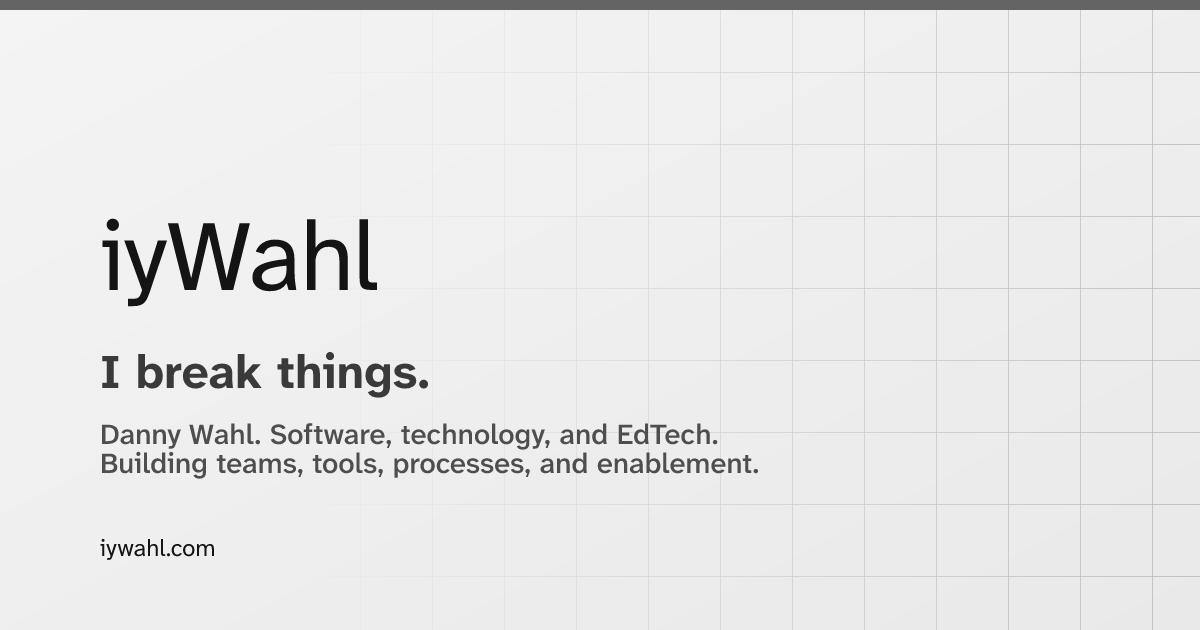
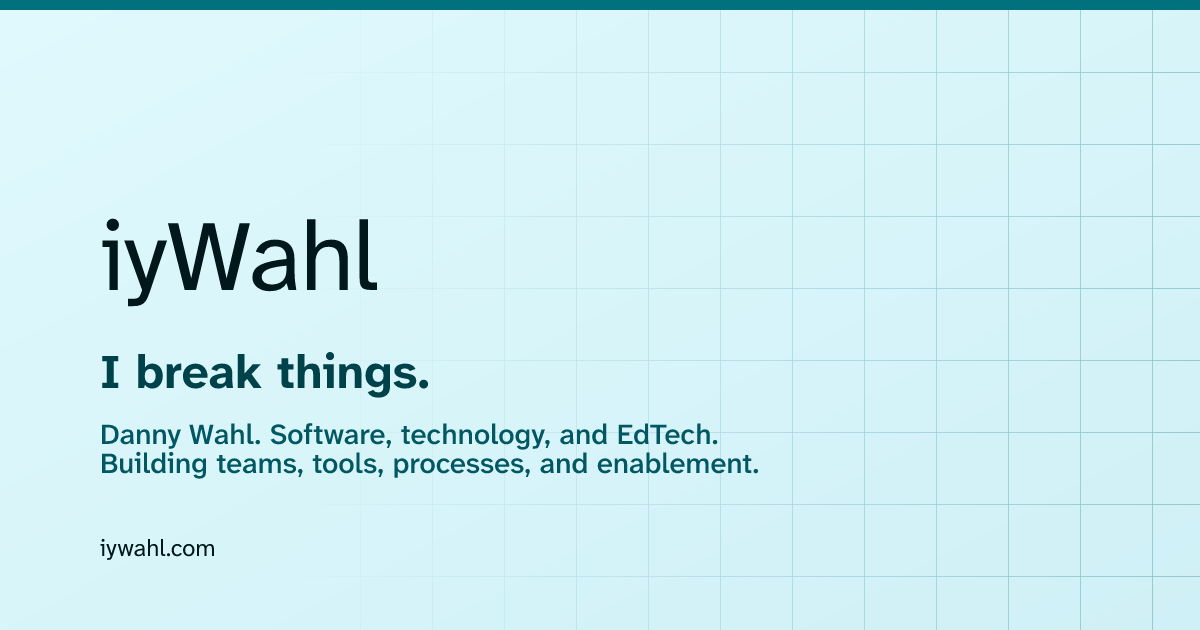
feat: implement structured data for improved SEO and social sharing

diff --git a/tests/site.test.js b/tests/site.test.js
@@ -10,7 +10,7 @@ import { gzipSync } from 'node:zlib';
 import postcss from 'postcss';
 import nunjucks from 'nunjucks';
 import { bluePalette, optimizeCss, productionCss } from '../build/optimize-css.js';
-import { projectArtwork, projectUrl, readProjects, renderPage, site } from '../build/site.js';
+import { projectArtwork, projectUrl, readProjects, renderPage, site, structuredData } from '../build/site.js';
 import { normalizePost, readBlog, sanitizeMarkdown } from '../build/blog.js';
 import { blogAssets, generateSite, staging } from '../build/generate.js';
 import { readTagIcons, tagIconStyles } from '../build/tag-icons.js';
@@ -388,7 +388,7 @@ test('Pages workflow uses npm, deploys only master, and uploads only the product
   expect(upload.if).toBe(workflow.jobs.deploy.if);
 });
 
-test('homepage metadata uses a descriptive title and preserves the existing social image', async () => {
+test('homepage metadata uses a descriptive title and branded social image', async () => {
   const page = await browser.newPage();
   await page.setContent(renderPage(await readFile('src/index.html', 'utf8')));
   const title = await page.title();
@@ -404,6 +404,63 @@ test('homepage metadata uses a descriptive title and preserves the existing soci
     .toBe('iyWahl. I break things. Danny Wahl. Software, technology, and EdTech.');
   expect(await page.locator('meta[name="twitter:image:alt"]').getAttribute('content'))
     .toBe('iyWahl. I break things. Danny Wahl. Software, technology, and EdTech.');
+  await page.close();
+});
+
+test('structured metadata safely serializes titles, authors, dates and topics', () => {
+  const post = normalizePost({ title: '</script><script>alert("title")</script>',
+    published_at: '2024-01-01T00:00:00Z', modified_at: '2024-02-01T00:00:00Z',
+    authors: 'Guest Author', tags: 'CSS, Education' }, 'metadata-probe');
+  const json = structuredData(post.title, 'Quotes " & <markup>', `${post.url}index.html`, post);
+  expect(json).not.toContain('<');
+  const article = JSON.parse(json)['@graph'].find(node => node['@type'] === 'BlogPosting');
+  expect(article).toMatchObject({ headline: post.title, description: 'Quotes " & <markup>',
+    url: post.canonical, datePublished: post.date.toISOString(), dateModified: post.updated.toISOString(),
+    author: { '@type': 'Person', name: 'Guest Author' }, keywords: ['CSS', 'Education'] });
+});
+
+test('built pages expose consistent schema.org and social unfurl metadata', async () => {
+  const post = readBlog().posts[0];
+  const page = await browser.newPage();
+  for (const path of ['/', '/blog/', '/blog/page/2/', '/blog/archive/', '/blog/tags/', post.url]) {
+    await page.goto(`${urls.dist}${path}`);
+    const canonical = `https://iywahl.com${path}`;
+    const title = await page.title();
+    const description = await page.locator('meta[name="description"]').getAttribute('content');
+    for (const selector of ['meta[property="og:title"]', 'meta[name="twitter:title"]']) {
+      expect(await page.locator(selector).getAttribute('content')).toBe(title);
+    }
+    expect(await page.locator('meta[property="og:url"]').getAttribute('content')).toBe(canonical);
+    expect(await page.locator('meta[name="twitter:image"]').getAttribute('content'))
+      .toBe('https://iywahl.com/assets/social/iywahl-og-light.png');
+    const schema = JSON.parse(await page.locator('script[type="application/ld+json"]').textContent());
+    expect(schema['@context']).toBe('https://schema.org');
+    const nodes = schema['@graph'];
+    const webpage = nodes.find(node => node['@id'] === `${canonical}#webpage`);
+    expect(webpage).toMatchObject({ url: canonical, name: title, description,
+      '@type': path === '/' ? 'ProfilePage' : path === post.url ? 'WebPage' : 'CollectionPage' });
+    expect(nodes.find(node => node['@type'] === 'ImageObject')).toMatchObject({ width: 1200, height: 630 });
+    const ids = new Set(nodes.map(node => node['@id']));
+    for (const reference of JSON.stringify(nodes).matchAll(/\{"@id":"([^"]+)"\}/g)) {
+      expect(ids.has(reference[1])).toBe(true);
+    }
+    if (path === post.url) {
+      expect(nodes.find(node => node['@type'] === 'BlogPosting')).toMatchObject({
+        headline: post.title, datePublished: post.date.toISOString(),
+        dateModified: (post.updated || post.date).toISOString(), author: { '@id': 'https://iywahl.com/#person' } });
+    }
+  }
+  const artwork = {
[4 lines of base64/hex data omitted]
+  };
+  for (const [filename, hash] of Object.entries(artwork)) {
+    const response = await page.request.get(`${urls.dist}/assets/social/${filename}`);
+    expect(response.status()).toBe(200);
+    expect(createHash('sha256').update(await response.body()).digest('hex')).toBe(hash);
+  }
   await page.close();
 });
 

diff --git a/build/site.js b/build/site.js
@@ -10,6 +10,41 @@ const source = fileURLToPath(new URL('../src/', import.meta.url));
 const projectAssets = join(source, 'assets/projects');
 const dataPath = join(source, 'data/projects.json');
 
+export function structuredData(
+  title = 'Accessible Web Tools by Danny Wahl | Pantoken & CSSDoc',
+  description = 'Pantoken, CSSDoc, and automatica11y \u2014 tools for building and documenting the accessible web.',
+  path = '/', post = null,
+) {
+  const origin = 'https://iywahl.com';
+  const url = new URL(path.replace(/index\.html$/, ''), origin).href;
+  const person = { '@type': 'Person', '@id': `${origin}/#person`, name: 'Danny Wahl', url: `${origin}/` };
+  const image = { '@type': 'ImageObject', '@id': `${origin}/#social-image`,
+    url: `${origin}/assets/social/iywahl-og-light.png`, contentUrl: `${origin}/assets/social/iywahl-og-light.png`,
+    width: 1200, height: 630, caption: 'iyWahl. I break things. Danny Wahl. Software, technology, and EdTech.' };
+  const website = { '@type': 'WebSite', '@id': `${origin}/#website`, name: 'iyWahl', url: `${origin}/`,
+    publisher: { '@id': person['@id'] }, inLanguage: 'en' };
+  const page = { '@type': path === '/' ? 'ProfilePage' : post ? 'WebPage' : 'CollectionPage',
+    '@id': `${url}#webpage`, url, name: title, description, inLanguage: 'en',
+    isPartOf: { '@id': website['@id'] }, primaryImageOfPage: { '@id': image['@id'] } };
+  const graph = [person, website, image, page];
+  if (path === '/') page.mainEntity = { '@id': person['@id'] };
+  else {
+    const blog = { '@type': 'Blog', '@id': `${origin}/blog/#blog`, url: `${origin}/blog/`,
+      name: "Danny Wahl's Blog", publisher: { '@id': person['@id'] }, inLanguage: 'en' };
+    graph.push(blog);
+    if (post) {
+      page.mainEntity = { '@id': `${url}#article` };
+      graph.push({ '@type': 'BlogPosting', '@id': `${url}#article`, url, headline: post.title, description,
+        datePublished: post.date.toISOString(), dateModified: (post.updated || post.date).toISOString(),
+        author: post.author === person.name ? { '@id': person['@id'] } : { '@type': 'Person', name: post.author },
+        publisher: { '@id': person['@id'] }, image: { '@id': image['@id'] },
+        isPartOf: { '@id': blog['@id'] }, mainEntityOfPage: { '@id': page['@id'] },
+        keywords: post.topics.map(topic => topic.label), inLanguage: 'en' });
+    } else page.mainEntity = { '@id': blog['@id'] };
+  }
+  return JSON.stringify({ '@context': 'https://schema.org', '@graph': graph }).replace(/</g, '\\u003c');
+}
+
 export function projectUrl(url) {
   if (typeof url !== 'string' || !url.trim()) throw new Error('Invalid project URL');
   const resolved = new URL(url, 'https://iywahl.com/');
@@ -75,6 +110,7 @@ export function renderPage(html) {
     noCache: true,
   }), { autoescape: true, throwOnUndefined: true });
   environment.addGlobal('projectArtwork', projectArtwork);
+  environment.addGlobal('structuredData', structuredData);
   return environment.renderString(html, { projects: readProjects() });
 }
 

diff --git a/eleventy.config.js b/eleventy.config.js
@@ -1,5 +1,5 @@
 import nunjucks from 'nunjucks';
-import { readProjects, projectArtwork } from './build/site.js';
+import { readProjects, projectArtwork, structuredData } from './build/site.js';
 import { readBlog, sanitizeMarkdown } from './build/blog.js';
 import anchor from 'markdown-it-anchor';
 import Shiki from '@shikijs/markdown-it';
@@ -20,6 +20,7 @@ export default function (configuration) {
     noCache: true,
   }), { autoescape: true, throwOnUndefined: true });
   environment.addGlobal('projectArtwork', projectArtwork);
+  environment.addGlobal('structuredData', structuredData);
   configuration.setLibrary('njk', environment);
   configuration.addLayoutAlias('partials/blog-layout.njk', 'blog-layout.njk');
   configuration.addLayoutAlias('partials/blog-post.njk', 'blog-post.njk');

diff --git a/src/index.html b/src/index.html
@@ -22,6 +22,7 @@
   <meta name="twitter:description" content="Pantoken, CSSDoc, and automatica11y &mdash; tools for building and documenting the accessible web.">
   <meta name="twitter:image" content="https://iywahl.com/assets/social/iywahl-og-light.png">
   <meta name="twitter:image:alt" content="iyWahl. I break things. Danny Wahl. Software, technology, and EdTech.">
+  <script type="application/ld+json">{{ structuredData() | safe }}</script>
   <link rel="icon" href="/assets/favicon/iywahl-favicon.ico" sizes="any">
   <link rel="icon" href="/assets/favicon/iywahl-favicon.svg" type="image/svg+xml" media="(prefers-color-scheme: light)">
   <link rel="icon" href="/assets/favicon/iywahl-favicon-dark.svg" type="image/svg+xml" media="(prefers-color-scheme: dark)">

diff --git a/README.md b/README.md
@@ -1,6 +1,6 @@
 # iywahl.com
 
-![iywahl: I break things.](https://iywahl.com/assets/social/iywahl-og-light.png)
+![iywahl: I break things.](https://iywahl.com/assets/social/iywahl-og.png)
 
 A static project gallery and Markdown blog built with Eleventy, Vite, and
 Pantoken. Eleventy renders templates into an ignored staging directory; Vite
@@ -31,7 +31,7 @@ inspect the production output. Generated files are not committed.
 - [src/scripts/color-scheme.js](src/scripts/color-scheme.js): persistent appearance control.
 - [src/assets/projects](src/assets/projects): original light/dark project SVGs.
 - [public/assets](public/assets): site favicons and social images, copied unchanged.
-- [build/site.js](build/site.js): rendering, SVG processing, and HTML minification.
+- [build/site.js](build/site.js): rendering, schema.org JSON-LD, SVG processing, and HTML minification.
 - [build/optimize-css.js](build/optimize-css.js): Pantoken palette and CSS optimization.
 
 To add a project, add its data record and matching `<id>-og.svg` and
@@ -39,6 +39,12 @@ To add a project, add its data record and matching `<id>-og.svg` and
 SVG IDs and references are prefixed during rendering, and the bottom URL is
 omitted in the gallery because it already appears in the caption. Source artwork
 remains unchanged. Inline SVGs inherit the locally bundled Atkinson font.
+
+The homepage and blog pages include Open Graph, Twitter cards, and schema.org
+JSON-LD. Posts expose their author, publication/update dates, and topics as
+`BlogPosting` data. Unfurls use the blue-tinted 1200x630
+[public/assets/social/iywahl-og-light.png](public/assets/social/iywahl-og-light.png);
+both light and dark artwork are retained in PNG and SVG formats.
 
 ## Production Optimization
 
